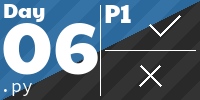
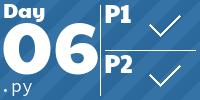
[2024/6] p2 solved (slow - takes 5m30s)

diff --git a/2024/6/script.py b/2024/6/script.py
@@ -7,7 +7,7 @@ def move(pos: tuple, dir_: Dir, grid: Grid) -> tuple[tuple, Dir]:
     next_pos = pos + Vec2(dir_)
 
     # out of bounds or open, return next position
-    if not grid.in_bounds(next_pos) or not grid[next_pos] == '#':
+    if not grid.in_bounds(next_pos) or not grid[next_pos] in '#O':
         return next_pos.as_tuple(), dir_
 
     # obstacle, rotate right 90 degrees
@@ -15,20 +15,85 @@ def move(pos: tuple, dir_: Dir, grid: Grid) -> tuple[tuple, Dir]:
         return pos, dir_.turn_right()
 
 
-def main():
-    grid = Grid(aoc.read_lines())
-
-    pos = grid.find('^')
-    dir_ = Dir.UP
-
+def simulate(pos: tuple, dir_: Dir, grid: Grid) -> tuple[set, list, bool]:
     visited = set()
     visited.add(pos)
+    path = []
+    path.append((pos, dir_))
+    loops = False
+
     while grid.in_bounds(pos):
         pos, dir_ = move(pos, dir_, grid)
         visited.add(pos)
+        if path[-1][0] == pos:
+            path.append((pos, dir_))
+            path.append((pos, None))
+        elif (pos, dir_) in path:
+            loops = True
+            break
+        else:
+            path.append((pos, dir_))
 
-    print(grid.render_with_overlays([{pos: 'X' for pos in visited}]))
+    return visited, path, loops
+
+
+def print_path(grid: Grid, path: list, start_pos: tuple):
+    dir_chars = {
+        Dir.UP: '|',
+        Dir.DOWN: '|',
+        Dir.LEFT: '-',
+        Dir.RIGHT: '-',
+        None: '+',
+    }
+    print(grid.render_with_overlays([{pos: dir_chars[dir_] for pos, dir_ in path},
+                                     {start_pos: '^'}]))
+
+
+def main():
+    grid = Grid(aoc.read_lines())
+
+    start_pos = grid.find('^')
+    dir_ = Dir.UP
+
+    visited, path, _ = simulate(start_pos, dir_, grid)
+
+    # print(grid.render_with_overlays([{pos: 'X' for pos in visited}]))
+    # print("p1:", len(visited) - 1)
+
+    # print_path(grid, path, start_pos)
+
+    loop_obstacles = set()
+    tried_obstacles = set()
+    path = [p for p in path if p[1] is not None]
+
+    # try placing an obstacle at every position along our initial path
+    for i, pair in enumerate(path):
+        pos = pair[0]
+
+        # skip the start position, out-of-bounds, and previously tried obstacles
+        if pos == start_pos or not grid.in_bounds(pos) or pos in tried_obstacles:
+            continue
+
+        # place the obstacle
+        grid[pos] = 'O'
+        tried_obstacles.add(pos)
+
+        # start pathing from just before the newly placed obstacle
+        new_start_pos, new_dir = path[i-1] if path[i-1][0] != pos else path[i-2]
+
+        new_visited, new_path, loops = simulate(new_start_pos, new_dir, grid)
+
+        # track obstacles that cause loops
+        if loops:
+            loop_obstacles.add(pos)
+            # print_path(grid, new_path, new_start_pos)
+            print(f"{i}/{len(path)} {len(loop_obstacles)}")
+
+        # remove the current obstacle so we can try the next one
+        grid[pos] = '.'
+
     print("p1:", len(visited) - 1)
+    print("p2:", len(loop_obstacles))
 
 
 if __name__ == "__main__":

diff --git a/README.md b/README.md
@@ -3,10 +3,10 @@ My solutions to the yearly Advents of Code
 
 <!-- AOC TILES BEGIN -->
 <h1 align="center">
-  Advent of Code - 172/462 ⭐
+  Advent of Code - 173/462 ⭐
 </h1>
 <h1 align="center">
-  2024 - 11 ⭐ - Python
+  2024 - 12 ⭐ - Python
 </h1>
 <a href="2024/1/script.py">
   <img src=".aoc_tiles/tiles/2024/01.png" width="161px">
